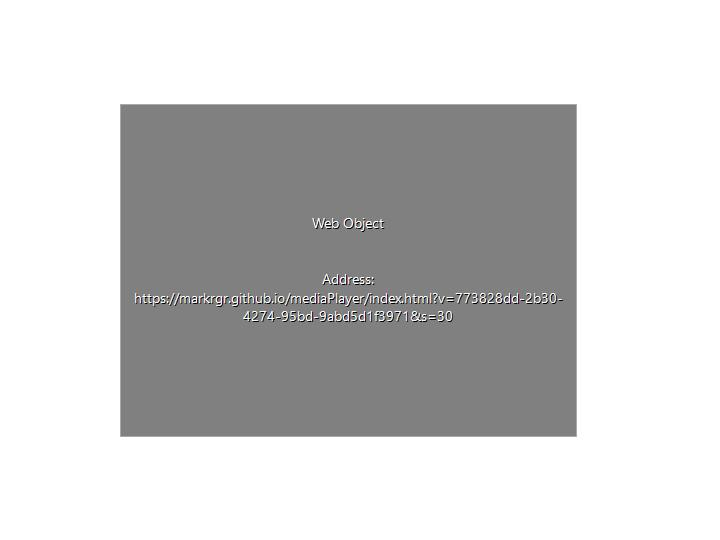
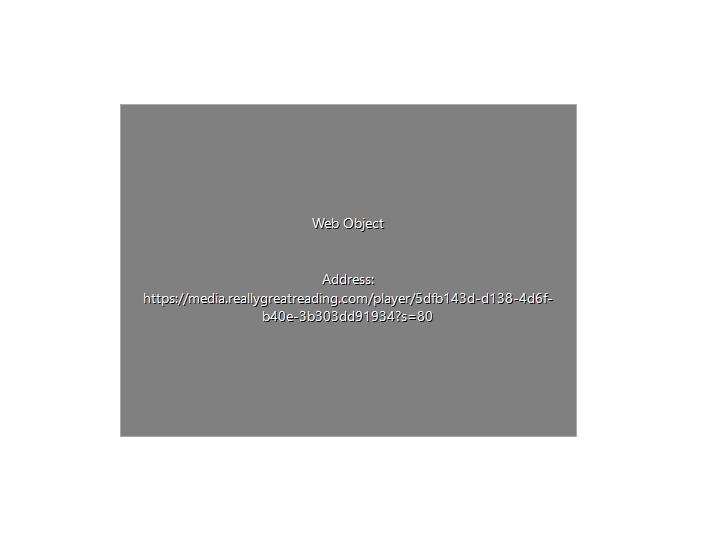
New SL Sample

Changed region(s): [[0.1833, 0.5333, 0.7944, 0.6222]]

diff --git a/slSample/RawVideoStream/html5/data/js/data.js b/slSample/RawVideoStream/html5/data/js/data.js
@@ -1,1 +1,1 @@
-window.globalProvideData('data', '{"version":"3.102.35072.0","bwVersion":"4.0","tincanVersion":"1.0","tincanLanguage":"und","projectId":"6XzdXAylp7d","courseId":"6Hy7zcT9IB6","entryPoint":"_player.62l3LzaU18X","iosFonts":"mobile/fonts.json","debugMode":false,"lessonDuration":0,"textDirection":"ltr","meta":{"hasMultiLanguageSource":false},"playervars":[{"kind":"playervar","name":"displayCaptions","value":false},{"kind":"playervar","name":"zoomToFit","value":false},{"kind":"playervar","name":"accessibleText","value":false},{"kind":"playervar","name":"activityId","value":""},{"kind":"playervar","name":"currentSlideId","value":""},{"kind":"playervar","name":"slideElapsedTime","value":""},{"kind":"playervar","name":"sceneElapsedTime","value":""},{"kind":"playervar","name":"projectElapsedTime","value":""},{"kind":"playervar","name":"questionCorrect","value":false},{"kind":"playervar","name":"fullScreenMode","value":false},{"kind":"playervar","name":"backgroundAudioVolume","value":100},{"kind":"playervar","name":"menuSlideNumber","value":0},{"kind":"playervar","name":"menuSlideTitle","value":""},{"kind":"playervar","name":"menuSlideReference","value":0},{"kind":"playervar","name":"menuSlidesViewed","value":0},{"kind":"playervar","name":"menuTotalSlides","value":0},{"kind":"playervar","name":"menuProgress","value":0},{"kind":"playervar","name":"menuSectionSlideNumber","value":0},{"kind":"playervar","name":"menuSectionSlidesViewed","value":0},{"kind":"playervar","name":"menuSectionTotalSlides","value":0},{"kind":"playervar","name":"menuSectionProgress","value":0},{"kind":"playervar","name":"menuSectionNumber","value":0},{"kind":"playervar","name":"menuSectionsViewed","value":0},{"kind":"playervar","name":"menuTotalSections","value":0},{"kind":"playervar","name":"projectSlideNumber","value":0},{"kind":"playervar","name":"projectSceneNumber","value":0},{"kind":"playervar","name":"projectSlideTitle","value":""},{"kind":"playervar","name":"projectSlideReference","value":0},{"kind":"playervar","name":"projectSlidesViewed","value":0},{"kind":"playervar","name":"projectScenesViewed","value":0},{"kind":"playervar","name":"projectTotalSlides","value":0},{"kind":"playervar","name":"projectTotalScenes","value":0},{"kind":"playervar","name":"projectProgress","value":0},{"kind":"playervar","name":"sceneSlideNumber","value":0},{"kind":"playervar","name":"sceneSlidesViewed","value":0},{"kind":"playervar","name":"sceneTotalSlides","value":0},{"kind":"playervar","name":"sceneProgress","value":0}],"slideMap":{"queueSize":3,"slideRefs":[{"kind":"slideref","id":"PromptScene.ResumePromptSlide","type":"slide","assetIds":[]},{"kind":"slideref","id":"PromptScene.ExternalInterfaceErrorSlide","type":"slide","assetIds":[]},{"kind":"slideref","id":"62l3LzaU18X.5buo1W8UKQG","type":"slide","assetIds":[]}]},"display":{"frameData":"story_content/frame.xml","width":980,"height":658,"windows":[{"kind":"window","id":"MessageWnd","linkId":"StoryWindow","width":420,"height":210,"alignTo":"content","align":"center","valign":"center"},{"kind":"window","id":"LightboxWnd","linkId":"StoryPopup","width":620,"height":467,"alignTo":"player","align":"center","valign":"center"},{"kind":"window","id":"LightboxControlsWnd","linkId":"StoryPopupControls","width":624,"height":509,"alignTo":"player","align":"center","valign":"center"}]},"resume":{"id":"6ojv92CC8NR","window":"MessageWnd","slideId":"_player.PromptScene.ResumePromptSlide","lmsresume":true,"flashresume":true,"prompt":true,"everySlide":false},"string_table":[{"kind":"group","id":"chrome23","strings":[{"kind":"string","id":"title","Text":"Can\'t Play Course"},{"kind":"string","id":"description","Text":"For security reasons, Flash cannot access files on your computer\'s hard disk from your web browser."},{"kind":"string","id":"linkText","Text":"Learn More"},{"kind":"string","id":"linkUrl","Text":"https://ipc.articulate.com/slw/360/en/localplayback/"}]}],"errorMsgs":{"external_interface":{"kind":"error","window":"MessageWnd","slideId":"_player.PromptScene.ExternalInterfaceErrorSlide"}},"scenes":[{"kind":"scene","lmsId":"","isMessageScene":true,"startingSlide":"_player.PromptScene.ResumePromptSlide","sceneNumber":0,"slides":[{"kind":"slide","title":"<p dir=\'ltr\' align=\'left\' style=\\"font-family: \'Lato22AB4CAF\';\\">Resume</p>","trackViews":false,"showMenuResultIcon":false,"viewGroupId":"","historyGroupId":"prompt","videoZoom":"","scrolling":false,"transition":"appear","transDuration":0,"transDir":1,"wipeTrans":false,"slideLock":false,"navIndex":-1,"globalAudioId":"","thumbnailid":"","slideNumberInScene":0,"includeInSlideCounts":false,"showAnimationId":"","lmsId":"","width":420,"height":210,"resume":false,"id":"ResumePromptSlide","slideLayers":[{"enableSeek":true,"enableReplay":true,"timeline":{"duration":1000,"events":[{"kind":"ontimelinetick","time":0,"actions":[{"kind":"show","transition":"appear","objRef":{"type":"string","value":"6Hy7zcT9IB6_ResumePromptSlide_btn0"}},{"kind":"show","transition":"appear","objRef":{"type":"string","value":"6Hy7zcT9IB6_ResumePromptSlide_btn1"}},{"kind":"show","transition":"appear","objRef":{"type":"string","value":"ResumePromptSlide_Scroll.6Hy7zcT9IB6_ResumePromptSlide_text"}},{"kind":"show","transition":"appear","objRef":{"type":"string","value":"ResumePromptSlide_Scroll"}}]}]},"objects":[{"kind":"scrollarea","contentwidth":381,"contentheight":23,"objects":[{"kind":"vectorshape","rotation":0,"accType":"text","cliptobounds":false,"defaultAction":"","textLib":[{"kind":"textdata","uniqueId":"6Hy7zcT9IB6_ResumePromptSlide_text","id":"01","linkId":"6Hy7zcT9IB6_ResumePromptSlide_text","type":"vectortext","xPos":0,"yPos":0,"xAccOffset":0,"yAccOffset":0,"width":0,"height":0,"shadowIndex":-1,"scrollOverflow":false,"vectortext":{"left":0,"top":0,"right":370,"bottom":23,"pngfb":false,"pr":{"l":"common","i":1}}}],"shapemaskId":"","xPos":0,"yPos":0,"tabIndex":1,"tabEnabled":true,"xOffset":0,"yOffset":0,"rotateXPos":194,"rotateYPos":11.5,"scaleX":100,"scaleY":100,"alpha":100,"depth":1,"scrolling":true,"shuffleLock":false,"data":{"hotlinkId":"","accState":0,"vectorData":{"left":0,"top":0,"right":370,"bottom":23,"altText":"Would you like to resume where you left off?","pngfb":false,"pr":{"l":"common","i":0}},"html5data":{"xPos":0,"yPos":0,"width":370,"height":23,"strokewidth":0}},"width":388,"height":23,"resume":false,"useHandCursor":true,"id":"6Hy7zcT9IB6_ResumePromptSlide_text"}],"shapemaskId":"","xPos":13,"yPos":16,"tabIndex":0,"tabEnabled":true,"xOffset":0,"yOffset":0,"rotateXPos":205.5,"rotateYPos":39,"scaleX":100,"scaleY":100,"alpha":100,"rotation":0,"depth":1,"scrolling":true,"shuffleLock":false,"width":411,"height":78,"resume":false,"useHandCursor":true,"id":"ResumePromptSlide_Scroll"},{"kind":"button","shapemaskId":"","xPos":107,"yPos":110,"tabIndex":2,"tabEnabled":true,"xOffset":0,"yOffset":0,"rotateXPos":50,"rotateYPos":15,"scaleX":100,"scaleY":100,"alpha":100,"rotation":0,"depth":2,"scrolling":true,"shuffleLock":false,"data":{"hotlinkId":"","accState":0,"textdata":{"uniqueId":"6Hy7zcT9IB6_ResumePromptSlide_btn0","type":"vectortext","altText":"Yes","xPos":0,"yPos":0,"xAccOffset":0,"yAccOffset":0,"width":0,"height":0,"shadowIndex":-1,"scrollOverflow":false,"vectortext":{"left":0,"top":0,"right":63,"bottom":25,"pngfb":false,"pr":{"l":"common","i":2}}}},"width":100,"height":30,"resume":false,"useHandCursor":true,"id":"6Hy7zcT9IB6_ResumePromptSlide_btn0","events":[{"kind":"onrelease","actions":[{"kind":"resume_player","resume":true}]}]},{"kind":"button","shapemaskId":"","xPos":212,"yPos":110,"tabIndex":3,"tabEnabled":true,"xOffset":0,"yOffset":0,"rotateXPos":50,"rotateYPos":15,"scaleX":100,"scaleY":100,"alpha":100,"rotation":0,"depth":3,"scrolling":true,"shuffleLock":false,"data":{"hotlinkId":"","accState":0,"textdata":{"uniqueId":"6Hy7zcT9IB6_ResumePromptSlide_btn1","type":"vectortext","altText":"No","xPos":0,"yPos":0,"xAccOffset":0,"yAccOffset":0,"width":0,"height":0,"shadowIndex":-1,"scrollOverflow":false,"vectortext":{"left":0,"top":0,"right":61,"bottom":25,"pngfb":false,"pr":{"l":"common","i":3}}}},"width":100,"height":30,"resume":false,"useHandCursor":true,"id":"6Hy7zcT9IB6_ResumePromptSlide_btn1","events":[{"kind":"onrelease","actions":[{"kind":"resume_player","resume":false}]}]}],"startTime":-1,"elapsedTimeMode":"normal","useHandCursor":false,"resume":false,"kind":"slidelayer","isBaseLayer":true}]},{"kind":"slide","title":"<p dir=\'ltr\' align=\'left\' style=\\"font-family: \'Lato22AB4CAF\';\\">Warning</p>","trackViews":false,"showMenuResultIcon":false,"viewGroupId":"","historyGroupId":"prompt","videoZoom":"","scrolling":false,"transition":"appear","transDuration":0,"transDir":1,"wipeTrans":false,"slideLock":false,"navIndex":-1,"globalAudioId":"","thumbnailid":"","slideNumberInScene":0,"includeInSlideCounts":false,"showAnimationId":"","lmsId":"","width":415,"height":151,"resume":false,"id":"ExternalInterfaceErrorSlide","slideLayers":[{"enableSeek":true,"enableReplay":true,"timeline":{"duration":1000,"events":[{"kind":"ontimelinetick","time":0,"actions":[{"kind":"show","transition":"appear","objRef":{"type":"string","value":"Text"}},{"kind":"show","transition":"appear","objRef":{"type":"string","value":"buttonOK"}}]}]},"objects":[{"kind":"vectorshape","rotation":0,"accType":"text","cliptobounds":false,"defaultAction":"","textLib":[{"kind":"textdata","id":"01","linkId":"01","type":"vartext","xPos":0,"yPos":0,"xAccOffset":0,"yAccOffset":0,"width":383,"height":105,"device":true,"valign":"center","wordwrap":false,"textshadow":false,"shadowIndex":-1,"scrollOverflow":false,"vartext":"<html><p dir=\'ltr\' align=\'left\'><font face=\'Lato\' size=\'18pt\'color=\'#E2E2E2\'>The %_player.$LastErrorFeature% feature on this slide has been disabled while viewing locally because your browser does not support it.</font></p></html>"}],"shapemaskId":"","xPos":16,"yPos":0,"tabIndex":0,"tabEnabled":true,"xOffset":0,"yOffset":0,"rotateXPos":191.5,"rotateYPos":52.5,"scaleX":100,"scaleY":100,"alpha":100,"depth":1,"scrolling":true,"shuffleLock":false,"data":{"hotlinkId":"","accState":0,"vectorData":{"left":0,"top":0,"right":383,"bottom":105,"altText":"Warning Message","pngfb":false,"pr":{"l":"common","i":4}},"html5data":{"xPos":0,"yPos":0,"width":383,"height":105,"strokewidth":0}},"width":383,"height":105,"resume":false,"useHandCursor":true,"id":"Text"},{"kind":"button","shapemaskId":"","xPos":299,"yPos":105,"tabIndex":1,"tabEnabled":true,"xOffset":0,"yOffset":0,"rotateXPos":50,"rotateYPos":15,"scaleX":100,"scaleY":100,"alpha":100,"rotation":0,"depth":2,"scrolling":true,"shuffleLock":false,"data":{"hotlinkId":"","accState":0,"textdata":{"uniqueId":"buttonOK","type":"vectortext","altText":"OK","xPos":0,"yPos":0,"xAccOffset":0,"yAccOffset":0,"width":0,"height":0,"shadowIndex":-1,"scrollOverflow":false,"vectortext":{"left":0,"top":0,"right":62,"bottom":25,"pngfb":false,"pr":{"l":"common","i":5}}}},"width":100,"height":30,"resume":false,"useHandCursor":true,"id":"buttonOK","events":[{"kind":"onrelease","actions":[{"kind":"close_window","id":"MessageWnd"}]}]}],"startTime":-1,"elapsedTimeMode":"normal","useHandCursor":false,"resume":false,"kind":"slidelayer","isBaseLayer":true}]}],"id":"PromptScene"},{"kind":"scene","lmsId":"Scene1","isMessageScene":false,"startingSlide":"_player.62l3LzaU18X.5buo1W8UKQG","sceneNumber":1,"slides":[{"kind":"slide","html5url":"html5/data/js/5buo1W8UKQG.js","title":"Intro Slide","trackViews":true,"showMenuResultIcon":false,"viewGroupId":"","historyGroupId":"","videoZoom":"","scrolling":false,"transition":"appear","transDuration":0,"transDir":1,"wipeTrans":false,"slideLock":false,"navIndex":-1,"globalAudioId":"","thumbnailid":"","slideNumberInScene":1,"includeInSlideCounts":true,"showAnimationId":"","lmsId":"Slide1","width":720,"height":540,"resume":false,"id":"5buo1W8UKQG","slideLayers":[{"enableSeek":true,"enableReplay":true,"startTime":-1,"elapsedTimeMode":"normal","useHandCursor":false,"resume":false,"kind":"slidelayer","isBaseLayer":true}]}],"id":"62l3LzaU18X"}],"slideBank":{},"assetLib":[{"kind":"asset","mobileUrl":"story_content/5uNHjtBdjdp65cw5NVKiTh{Width=456, Height=332}Light.png","imageType":"normal","width":456,"height":332,"mobiledx":0,"mobiledy":0,"fileSize":7385,"maskref":"0","url":"mobile/5uNHjtBdjdp65cw5NVKiTh{Width=456, Height=332}Light.png","id":0}],"fontLib":[],"scorings":[{"kind":"scoring","description":"","lmstext":"RawVideoStream","type":"view","passPercent":80,"viewThreshold":1,"slidesViewedMode":"project","passStatus":"pass","failStatus":"fail","scoreRefs":[],"id":"scoringId_Slides"}],"slideCount":1,"defaultFont":"Lato22AB4CAF","fontScale":100,"colorGroups":[{"id":"window","colors":[{"id":"background","value":"#212121"},{"id":"border","value":"#454545"},{"id":"activeBorder","value":"#BABBBA"},{"id":"shadow","value":"rgba(0, 0, 0, 0.85)"},{"id":"divider","value":"#7A7A7A"}]},{"id":"button","colors":[{"id":"icon","value":"#BABBBA"},{"id":"iconHover","value":"#F8F8F8"},{"id":"border","value":"#7A7A7A"},{"id":"background","value":"#212121"}]},{"id":"text","colors":[{"id":"default","value":"#BABBBA"},{"id":"active","value":"#F8F8F8"}]},{"id":"select","colors":[{"id":"border","value":"#7A7A7A"},{"id":"background","value":"rgba(255, 255, 255, 0.06)"},{"id":"openBorder","value":"#BABBBA"}]},{"id":"selectList","colors":[{"id":"border","value":"#505050"},{"id":"background","value":"#212121"}]},{"id":"listitem","colors":[{"id":"selectedBorder","value":"#F8F8F8"}]},{"id":"scrollbar","colors":[{"id":"thumbBackground","value":"#BABBBA"}]},{"id":"base","colors":[{"id":"accent","value":"#4FBDF4"}]}],"id":"_player","variables":[{"kind":"variable","name":"LastSlideViewed_6Hy7zcT9IB6","type":"string","value":"_player.62l3LzaU18X.5buo1W8UKQG","resume":true},{"kind":"variable","name":"5buo1W8UKQG_RetryModeInteractionIncompleteOnLoad","type":"boolean","value":false,"resume":true}],"actionGroups":{"ActGrpOnPrevButtonClick":{"kind":"actiongroup","actions":[{"kind":"trigger_prev_slide"}]},"ActGrpOnNextButtonClick":{"kind":"actiongroup","actions":[{"kind":"trigger_next_slide"}]},"ActGrpOnFinishButtonClick":{"kind":"actiongroup","actions":[{"kind":"trigger_slide_finish"}]},"ActGrpOnSubmitButtonClick":{"kind":"actiongroup","actions":[{"kind":"trigger_submit_slide"}]},"ActGrpOnSubmitAllButtonClick":{"kind":"actiongroup","actions":[{"kind":"trigger_submitall_slide"}]}},"events":[{"kind":"onobjectevent","eventName":"prev_pressed","actions":[{"kind":"exe_actiongroup","id":"ActGrpOnPrevButtonClick"}]},{"kind":"onobjectevent","eventName":"next_pressed","actions":[{"kind":"exe_actiongroup","id":"ActGrpOnNextButtonClick"}]},{"kind":"onobjectevent","eventName":"finish_pressed","actions":[{"kind":"exe_actiongroup","id":"ActGrpOnFinishButtonClick"}]},{"kind":"onobjectevent","eventName":"submit_pressed","actions":[{"kind":"exe_actiongroup","id":"ActGrpOnSubmitButtonClick"}]},{"kind":"onobjectevent","eventName":"submitall_pressed","actions":[{"kind":"exe_actiongroup","id":"ActGrpOnSubmitAllButtonClick"}]}]}');
+window.globalProvideData('data', '{"version":"3.102.35072.0","bwVersion":"4.0","tincanVersion":"1.0","tincanLanguage":"und","projectId":"5gNNCqt9uBD","courseId":"6Hy7zcT9IB6","entryPoint":"_player.62l3LzaU18X","iosFonts":"mobile/fonts.json","debugMode":false,"lessonDuration":0,"textDirection":"ltr","meta":{"hasMultiLanguageSource":false},"playervars":[{"kind":"playervar","name":"displayCaptions","value":false},{"kind":"playervar","name":"zoomToFit","value":false},{"kind":"playervar","name":"accessibleText","value":false},{"kind":"playervar","name":"activityId","value":""},{"kind":"playervar","name":"currentSlideId","value":""},{"kind":"playervar","name":"slideElapsedTime","value":""},{"kind":"playervar","name":"sceneElapsedTime","value":""},{"kind":"playervar","name":"projectElapsedTime","value":""},{"kind":"playervar","name":"questionCorrect","value":false},{"kind":"playervar","name":"fullScreenMode","value":false},{"kind":"playervar","name":"backgroundAudioVolume","value":100},{"kind":"playervar","name":"menuSlideNumber","value":0},{"kind":"playervar","name":"menuSlideTitle","value":""},{"kind":"playervar","name":"menuSlideReference","value":0},{"kind":"playervar","name":"menuSlidesViewed","value":0},{"kind":"playervar","name":"menuTotalSlides","value":0},{"kind":"playervar","name":"menuProgress","value":0},{"kind":"playervar","name":"menuSectionSlideNumber","value":0},{"kind":"playervar","name":"menuSectionSlidesViewed","value":0},{"kind":"playervar","name":"menuSectionTotalSlides","value":0},{"kind":"playervar","name":"menuSectionProgress","value":0},{"kind":"playervar","name":"menuSectionNumber","value":0},{"kind":"playervar","name":"menuSectionsViewed","value":0},{"kind":"playervar","name":"menuTotalSections","value":0},{"kind":"playervar","name":"projectSlideNumber","value":0},{"kind":"playervar","name":"projectSceneNumber","value":0},{"kind":"playervar","name":"projectSlideTitle","value":""},{"kind":"playervar","name":"projectSlideReference","value":0},{"kind":"playervar","name":"projectSlidesViewed","value":0},{"kind":"playervar","name":"projectScenesViewed","value":0},{"kind":"playervar","name":"projectTotalSlides","value":0},{"kind":"playervar","name":"projectTotalScenes","value":0},{"kind":"playervar","name":"projectProgress","value":0},{"kind":"playervar","name":"sceneSlideNumber","value":0},{"kind":"playervar","name":"sceneSlidesViewed","value":0},{"kind":"playervar","name":"sceneTotalSlides","value":0},{"kind":"playervar","name":"sceneProgress","value":0}],"slideMap":{"queueSize":3,"slideRefs":[{"kind":"slideref","id":"PromptScene.ResumePromptSlide","type":"slide","assetIds":[]},{"kind":"slideref","id":"PromptScene.ExternalInterfaceErrorSlide","type":"slide","assetIds":[]},{"kind":"slideref","id":"62l3LzaU18X.5buo1W8UKQG","type":"slide","assetIds":[]}]},"display":{"frameData":"story_content/frame.xml","width":980,"height":658,"windows":[{"kind":"window","id":"MessageWnd","linkId":"StoryWindow","width":420,"height":210,"alignTo":"content","align":"center","valign":"center"},{"kind":"window","id":"LightboxWnd","linkId":"StoryPopup","width":620,"height":467,"alignTo":"player","align":"center","valign":"center"},{"kind":"window","id":"LightboxControlsWnd","linkId":"StoryPopupControls","width":624,"height":509,"alignTo":"player","align":"center","valign":"center"}]},"resume":{"id":"6RsWw2wtAQ7","window":"MessageWnd","slideId":"_player.PromptScene.ResumePromptSlide","lmsresume":true,"flashresume":true,"prompt":true,"everySlide":false},"string_table":[{"kind":"group","id":"chrome23","strings":[{"kind":"string","id":"title","Text":"Can\'t Play Course"},{"kind":"string","id":"description","Text":"For security reasons, Flash cannot access files on your computer\'s hard disk from your web browser."},{"kind":"string","id":"linkText","Text":"Learn More"},{"kind":"string","id":"linkUrl","Text":"https://ipc.articulate.com/slw/360/en/localplayback/"}]}],"errorMsgs":{"external_interface":{"kind":"error","window":"MessageWnd","slideId":"_player.PromptScene.ExternalInterfaceErrorSlide"}},"scenes":[{"kind":"scene","lmsId":"","isMessageScene":true,"startingSlide":"_player.PromptScene.ResumePromptSlide","sceneNumber":0,"slides":[{"kind":"slide","title":"<p dir=\'ltr\' align=\'left\' style=\\"font-family: \'Lato22AB4CAF\';\\">Resume</p>","trackViews":false,"showMenuResultIcon":false,"viewGroupId":"","historyGroupId":"prompt","videoZoom":"","scrolling":false,"transition":"appear","transDuration":0,"transDir":1,"wipeTrans":false,"slideLock":false,"navIndex":-1,"globalAudioId":"","thumbnailid":"","slideNumberInScene":0,"includeInSlideCounts":false,"showAnimationId":"","lmsId":"","width":420,"height":210,"resume":false,"id":"ResumePromptSlide","slideLayers":[{"enableSeek":true,"enableReplay":true,"timeline":{"duration":1000,"events":[{"kind":"ontimelinetick","time":0,"actions":[{"kind":"show","transition":"appear","objRef":{"type":"string","value":"6Hy7zcT9IB6_ResumePromptSlide_btn0"}},{"kind":"show","transition":"appear","objRef":{"type":"string","value":"6Hy7zcT9IB6_ResumePromptSlide_btn1"}},{"kind":"show","transition":"appear","objRef":{"type":"string","value":"ResumePromptSlide_Scroll.6Hy7zcT9IB6_ResumePromptSlide_text"}},{"kind":"show","transition":"appear","objRef":{"type":"string","value":"ResumePromptSlide_Scroll"}}]}]},"objects":[{"kind":"scrollarea","contentwidth":381,"contentheight":23,"objects":[{"kind":"vectorshape","rotation":0,"accType":"text","cliptobounds":false,"defaultAction":"","textLib":[{"kind":"textdata","uniqueId":"6Hy7zcT9IB6_ResumePromptSlide_text","id":"01","linkId":"6Hy7zcT9IB6_ResumePromptSlide_text","type":"vectortext","xPos":0,"yPos":0,"xAccOffset":0,"yAccOffset":0,"width":0,"height":0,"shadowIndex":-1,"scrollOverflow":false,"vectortext":{"left":0,"top":0,"right":370,"bottom":23,"pngfb":false,"pr":{"l":"common","i":1}}}],"shapemaskId":"","xPos":0,"yPos":0,"tabIndex":1,"tabEnabled":true,"xOffset":0,"yOffset":0,"rotateXPos":194,"rotateYPos":11.5,"scaleX":100,"scaleY":100,"alpha":100,"depth":1,"scrolling":true,"shuffleLock":false,"data":{"hotlinkId":"","accState":0,"vectorData":{"left":0,"top":0,"right":370,"bottom":23,"altText":"Would you like to resume where you left off?","pngfb":false,"pr":{"l":"common","i":0}},"html5data":{"xPos":0,"yPos":0,"width":370,"height":23,"strokewidth":0}},"width":388,"height":23,"resume":false,"useHandCursor":true,"id":"6Hy7zcT9IB6_ResumePromptSlide_text"}],"shapemaskId":"","xPos":13,"yPos":16,"tabIndex":0,"tabEnabled":true,"xOffset":0,"yOffset":0,"rotateXPos":205.5,"rotateYPos":39,"scaleX":100,"scaleY":100,"alpha":100,"rotation":0,"depth":1,"scrolling":true,"shuffleLock":false,"width":411,"height":78,"resume":false,"useHandCursor":true,"id":"ResumePromptSlide_Scroll"},{"kind":"button","shapemaskId":"","xPos":107,"yPos":110,"tabIndex":2,"tabEnabled":true,"xOffset":0,"yOffset":0,"rotateXPos":50,"rotateYPos":15,"scaleX":100,"scaleY":100,"alpha":100,"rotation":0,"depth":2,"scrolling":true,"shuffleLock":false,"data":{"hotlinkId":"","accState":0,"textdata":{"uniqueId":"6Hy7zcT9IB6_ResumePromptSlide_btn0","type":"vectortext","altText":"Yes","xPos":0,"yPos":0,"xAccOffset":0,"yAccOffset":0,"width":0,"height":0,"shadowIndex":-1,"scrollOverflow":false,"vectortext":{"left":0,"top":0,"right":63,"bottom":25,"pngfb":false,"pr":{"l":"common","i":2}}}},"width":100,"height":30,"resume":false,"useHandCursor":true,"id":"6Hy7zcT9IB6_ResumePromptSlide_btn0","events":[{"kind":"onrelease","actions":[{"kind":"resume_player","resume":true}]}]},{"kind":"button","shapemaskId":"","xPos":212,"yPos":110,"tabIndex":3,"tabEnabled":true,"xOffset":0,"yOffset":0,"rotateXPos":50,"rotateYPos":15,"scaleX":100,"scaleY":100,"alpha":100,"rotation":0,"depth":3,"scrolling":true,"shuffleLock":false,"data":{"hotlinkId":"","accState":0,"textdata":{"uniqueId":"6Hy7zcT9IB6_ResumePromptSlide_btn1","type":"vectortext","altText":"No","xPos":0,"yPos":0,"xAccOffset":0,"yAccOffset":0,"width":0,"height":0,"shadowIndex":-1,"scrollOverflow":false,"vectortext":{"left":0,"top":0,"right":61,"bottom":25,"pngfb":false,"pr":{"l":"common","i":3}}}},"width":100,"height":30,"resume":false,"useHandCursor":true,"id":"6Hy7zcT9IB6_ResumePromptSlide_btn1","events":[{"kind":"onrelease","actions":[{"kind":"resume_player","resume":false}]}]}],"startTime":-1,"elapsedTimeMode":"normal","useHandCursor":false,"resume":false,"kind":"slidelayer","isBaseLayer":true}]},{"kind":"slide","title":"<p dir=\'ltr\' align=\'left\' style=\\"font-family: \'Lato22AB4CAF\';\\">Warning</p>","trackViews":false,"showMenuResultIcon":false,"viewGroupId":"","historyGroupId":"prompt","videoZoom":"","scrolling":false,"transition":"appear","transDuration":0,"transDir":1,"wipeTrans":false,"slideLock":false,"navIndex":-1,"globalAudioId":"","thumbnailid":"","slideNumberInScene":0,"includeInSlideCounts":false,"showAnimationId":"","lmsId":"","width":415,"height":151,"resume":false,"id":"ExternalInterfaceErrorSlide","slideLayers":[{"enableSeek":true,"enableReplay":true,"timeline":{"duration":1000,"events":[{"kind":"ontimelinetick","time":0,"actions":[{"kind":"show","transition":"appear","objRef":{"type":"string","value":"Text"}},{"kind":"show","transition":"appear","objRef":{"type":"string","value":"buttonOK"}}]}]},"objects":[{"kind":"vectorshape","rotation":0,"accType":"text","cliptobounds":false,"defaultAction":"","textLib":[{"kind":"textdata","id":"01","linkId":"01","type":"vartext","xPos":0,"yPos":0,"xAccOffset":0,"yAccOffset":0,"width":383,"height":105,"device":true,"valign":"center","wordwrap":false,"textshadow":false,"shadowIndex":-1,"scrollOverflow":false,"vartext":"<html><p dir=\'ltr\' align=\'left\'><font face=\'Lato\' size=\'18pt\'color=\'#E2E2E2\'>The %_player.$LastErrorFeature% feature on this slide has been disabled while viewing locally because your browser does not support it.</font></p></html>"}],"shapemaskId":"","xPos":16,"yPos":0,"tabIndex":0,"tabEnabled":true,"xOffset":0,"yOffset":0,"rotateXPos":191.5,"rotateYPos":52.5,"scaleX":100,"scaleY":100,"alpha":100,"depth":1,"scrolling":true,"shuffleLock":false,"data":{"hotlinkId":"","accState":0,"vectorData":{"left":0,"top":0,"right":383,"bottom":105,"altText":"Warning Message","pngfb":false,"pr":{"l":"common","i":4}},"html5data":{"xPos":0,"yPos":0,"width":383,"height":105,"strokewidth":0}},"width":383,"height":105,"resume":false,"useHandCursor":true,"id":"Text"},{"kind":"button","shapemaskId":"","xPos":299,"yPos":105,"tabIndex":1,"tabEnabled":true,"xOffset":0,"yOffset":0,"rotateXPos":50,"rotateYPos":15,"scaleX":100,"scaleY":100,"alpha":100,"rotation":0,"depth":2,"scrolling":true,"shuffleLock":false,"data":{"hotlinkId":"","accState":0,"textdata":{"uniqueId":"buttonOK","type":"vectortext","altText":"OK","xPos":0,"yPos":0,"xAccOffset":0,"yAccOffset":0,"width":0,"height":0,"shadowIndex":-1,"scrollOverflow":false,"vectortext":{"left":0,"top":0,"right":62,"bottom":25,"pngfb":false,"pr":{"l":"common","i":5}}}},"width":100,"height":30,"resume":false,"useHandCursor":true,"id":"buttonOK","events":[{"kind":"onrelease","actions":[{"kind":"close_window","id":"MessageWnd"}]}]}],"startTime":-1,"elapsedTimeMode":"normal","useHandCursor":false,"resume":false,"kind":"slidelayer","isBaseLayer":true}]}],"id":"PromptScene"},{"kind":"scene","lmsId":"Scene1","isMessageScene":false,"startingSlide":"_player.62l3LzaU18X.5buo1W8UKQG","sceneNumber":1,"slides":[{"kind":"slide","html5url":"html5/data/js/5buo1W8UKQG.js","title":"Intro Slide","trackViews":true,"showMenuResultIcon":false,"viewGroupId":"","historyGroupId":"","videoZoom":"","scrolling":false,"transition":"appear","transDuration":0,"transDir":1,"wipeTrans":false,"slideLock":false,"navIndex":-1,"globalAudioId":"","thumbnailid":"","slideNumberInScene":1,"includeInSlideCounts":true,"showAnimationId":"","lmsId":"Slide1","width":720,"height":540,"resume":false,"id":"5buo1W8UKQG","slideLayers":[{"enableSeek":true,"enableReplay":true,"startTime":-1,"elapsedTimeMode":"normal","useHandCursor":false,"resume":false,"kind":"slidelayer","isBaseLayer":true}]}],"id":"62l3LzaU18X"}],"slideBank":{},"assetLib":[{"kind":"asset","mobileUrl":"story_content/5uNHjtBdjdp5kBMfnTa0bJ{Width=456, Height=332}Light.png","imageType":"normal","width":456,"height":332,"mobiledx":0,"mobiledy":0,"fileSize":6835,"maskref":"0","url":"mobile/5uNHjtBdjdp5kBMfnTa0bJ{Width=456, Height=332}Light.png","id":0}],"fontLib":[],"scorings":[{"kind":"scoring","description":"","lmstext":"RawVideoStream","type":"view","passPercent":80,"viewThreshold":1,"slidesViewedMode":"project","passStatus":"pass","failStatus":"fail","scoreRefs":[],"id":"scoringId_Slides"}],"slideCount":1,"defaultFont":"Lato22AB4CAF","fontScale":100,"colorGroups":[{"id":"window","colors":[{"id":"background","value":"#212121"},{"id":"border","value":"#454545"},{"id":"activeBorder","value":"#BABBBA"},{"id":"shadow","value":"rgba(0, 0, 0, 0.85)"},{"id":"divider","value":"#7A7A7A"}]},{"id":"button","colors":[{"id":"icon","value":"#BABBBA"},{"id":"iconHover","value":"#F8F8F8"},{"id":"border","value":"#7A7A7A"},{"id":"background","value":"#212121"}]},{"id":"text","colors":[{"id":"default","value":"#BABBBA"},{"id":"active","value":"#F8F8F8"}]},{"id":"select","colors":[{"id":"border","value":"#7A7A7A"},{"id":"background","value":"rgba(255, 255, 255, 0.06)"},{"id":"openBorder","value":"#BABBBA"}]},{"id":"selectList","colors":[{"id":"border","value":"#505050"},{"id":"background","value":"#212121"}]},{"id":"listitem","colors":[{"id":"selectedBorder","value":"#F8F8F8"}]},{"id":"scrollbar","colors":[{"id":"thumbBackground","value":"#BABBBA"}]},{"id":"base","colors":[{"id":"accent","value":"#4FBDF4"}]}],"id":"_player","variables":[{"kind":"variable","name":"LastSlideViewed_6Hy7zcT9IB6","type":"string","value":"_player.62l3LzaU18X.5buo1W8UKQG","resume":true},{"kind":"variable","name":"5buo1W8UKQG_RetryModeInteractionIncompleteOnLoad","type":"boolean","value":false,"resume":true}],"actionGroups":{"ActGrpOnPrevButtonClick":{"kind":"actiongroup","actions":[{"kind":"trigger_prev_slide"}]},"ActGrpOnNextButtonClick":{"kind":"actiongroup","actions":[{"kind":"trigger_next_slide"}]},"ActGrpOnFinishButtonClick":{"kind":"actiongroup","actions":[{"kind":"trigger_slide_finish"}]},"ActGrpOnSubmitButtonClick":{"kind":"actiongroup","actions":[{"kind":"trigger_submit_slide"}]},"ActGrpOnSubmitAllButtonClick":{"kind":"actiongroup","actions":[{"kind":"trigger_submitall_slide"}]}},"events":[{"kind":"onobjectevent","eventName":"prev_pressed","actions":[{"kind":"exe_actiongroup","id":"ActGrpOnPrevButtonClick"}]},{"kind":"onobjectevent","eventName":"next_pressed","actions":[{"kind":"exe_actiongroup","id":"ActGrpOnNextButtonClick"}]},{"kind":"onobjectevent","eventName":"finish_pressed","actions":[{"kind":"exe_actiongroup","id":"ActGrpOnFinishButtonClick"}]},{"kind":"onobjectevent","eventName":"submit_pressed","actions":[{"kind":"exe_actiongroup","id":"ActGrpOnSubmitButtonClick"}]},{"kind":"onobjectevent","eventName":"submitall_pressed","actions":[{"kind":"exe_actiongroup","id":"ActGrpOnSubmitAllButtonClick"}]}]}');

diff --git a/slSample/RawVideoStream/html5/data/css/output.min.css b/slSample/RawVideoStream/html5/data/css/output.min.css
@@ -1,11 +1,11 @@
 @font-face {
-  font-family: 'LatoBold Charset1_ Bold8836558B';
+  font-family: 'LatoBold Charset1_ Bold11F6993F';
[1 lines of base64/hex data omitted]
   font-style: normal;
   font-weight: normal;
 }
 @font-face {
-  font-family: 'Lato Charset1_ 6g1HjmQ2195CE23C';
+  font-family: 'Lato Charset1_ 5xlkVbCp8E31750C';
[1 lines of base64/hex data omitted]
   font-style: normal;
   font-weight: normal;

diff --git a/slSample/RawVideoStream/html5/data/js/5buo1W8UKQG.js b/slSample/RawVideoStream/html5/data/js/5buo1W8UKQG.js
@@ -1,1 +1,1 @@
-window.globalProvideData('slide', '{"title":"Intro Slide","trackViews":true,"showMenuResultIcon":false,"viewGroupId":"","historyGroupId":"","videoZoom":"","scrolling":false,"transition":"appear","transDuration":0,"transDir":1,"wipeTrans":false,"slideLock":false,"navIndex":-1,"globalAudioId":"","thumbnailid":"","slideNumberInScene":1,"includeInSlideCounts":true,"presenterRef":{"id":"none"},"showAnimationId":"","lmsId":"Slide1","width":720,"height":540,"resume":false,"background":{"type":"fill","fill":{"type":"linear","rotation":90,"colors":[{"kind":"color","rgb":"0xFFFFFF","alpha":100,"stop":0}]}},"id":"5buo1W8UKQG","actionGroups":{"ActGrpOnNextButtonClick":{"kind":"actiongroup","actions":[]},"ActGrpOnPrevButtonClick":{"kind":"actiongroup","actions":[{"kind":"history_prev"}]},"NavigationRestrictionNextSlide_5buo1W8UKQG":{"kind":"actiongroup","actions":[{"kind":"exe_actiongroup","id":"ActGrpOnNextButtonClick"}]},"NavigationRestrictionPreviousSlide_5buo1W8UKQG":{"kind":"actiongroup","actions":[{"kind":"exe_actiongroup","id":"ActGrpOnPrevButtonClick"}]}},"events":[{"kind":"onslidestart","actions":[{"kind":"if_action","condition":{"statement":{"kind":"compare","operator":"eq","valuea":"_playerVars.#hasPrevHistory","typea":"var","valueb":false,"typeb":"boolean"}},"thenActions":[{"kind":"enable_window_control","name":"previous","enable":false,"affectTabStop":true}]}]},{"kind":"onbeforeslidein","actions":[{"kind":"if_action","condition":{"statement":{"kind":"compare","operator":"eq","valuea":"$WindowId","typea":"property","valueb":"_frame","typeb":"string"}},"thenActions":[{"kind":"set_frame_layout","name":"pxabnsnfns00011100101"}],"elseActions":[{"kind":"set_window_control_layout","name":"pxabnsnfns00011100101"}]}]},{"kind":"onnextslide","actions":[{"kind":"exe_actiongroup","id":"NavigationRestrictionNextSlide_5buo1W8UKQG"}]},{"kind":"onprevslide","actions":[{"kind":"exe_actiongroup","id":"NavigationRestrictionPreviousSlide_5buo1W8UKQG"}]},{"kind":"ontransitionin","actions":[{"kind":"adjustvar","variable":"_player.LastSlideViewed_6Hy7zcT9IB6","operator":"set","value":{"type":"string","value":"_player."}},{"kind":"adjustvar","variable":"_player.LastSlideViewed_6Hy7zcT9IB6","operator":"add","value":{"type":"property","value":"$AbsoluteId"}}]}],"slideLayers":[{"enableSeek":true,"enableReplay":true,"timeline":{"duration":5000,"events":[{"kind":"ontimelinetick","time":0,"actions":[{"kind":"show","transition":"appear","objRef":{"type":"string","value":"5uNHjtBdjdp"}}]}]},"objects":[{"kind":"webobject","shouldScale":true,"url":"https://markrgr.github.io/mediaPlayer/index.html?v=773828dd-2b30-4274-95bd-9abd5d1f3971&s=30","html5Url":"https://markrgr.github.io/mediaPlayer/index.html?v=773828dd-2b30-4274-95bd-9abd5d1f3971&s=30","thumbAssetId":0,"loadtype":"auto","objtype":"normal","shapemaskId":"","xPos":120,"yPos":104,"tabIndex":0,"tabEnabled":true,"referenceName":"5uNHjtBdjdp","morphReferenceName":"5uNHjtBdjdp","xOffset":0,"yOffset":0,"rotateXPos":228,"rotateYPos":166,"scaleX":100,"scaleY":100,"alpha":100,"rotation":0,"depth":1,"scrolling":true,"shuffleLock":false,"width":456,"height":332,"resume":false,"useHandCursor":true,"id":"5uNHjtBdjdp"}],"startTime":-1,"elapsedTimeMode":"normal","useHandCursor":false,"resume":false,"kind":"slidelayer","isBaseLayer":true}]}');
+window.globalProvideData('slide', '{"title":"Intro Slide","trackViews":true,"showMenuResultIcon":false,"viewGroupId":"","historyGroupId":"","videoZoom":"","scrolling":false,"transition":"appear","transDuration":0,"transDir":1,"wipeTrans":false,"slideLock":false,"navIndex":-1,"globalAudioId":"","thumbnailid":"","slideNumberInScene":1,"includeInSlideCounts":true,"presenterRef":{"id":"none"},"showAnimationId":"","lmsId":"Slide1","width":720,"height":540,"resume":false,"background":{"type":"fill","fill":{"type":"linear","rotation":90,"colors":[{"kind":"color","rgb":"0xFFFFFF","alpha":100,"stop":0}]}},"id":"5buo1W8UKQG","actionGroups":{"ActGrpOnNextButtonClick":{"kind":"actiongroup","actions":[]},"ActGrpOnPrevButtonClick":{"kind":"actiongroup","actions":[{"kind":"history_prev"}]},"NavigationRestrictionNextSlide_5buo1W8UKQG":{"kind":"actiongroup","actions":[{"kind":"exe_actiongroup","id":"ActGrpOnNextButtonClick"}]},"NavigationRestrictionPreviousSlide_5buo1W8UKQG":{"kind":"actiongroup","actions":[{"kind":"exe_actiongroup","id":"ActGrpOnPrevButtonClick"}]}},"events":[{"kind":"onslidestart","actions":[{"kind":"if_action","condition":{"statement":{"kind":"compare","operator":"eq","valuea":"_playerVars.#hasPrevHistory","typea":"var","valueb":false,"typeb":"boolean"}},"thenActions":[{"kind":"enable_window_control","name":"previous","enable":false,"affectTabStop":true}]}]},{"kind":"onbeforeslidein","actions":[{"kind":"if_action","condition":{"statement":{"kind":"compare","operator":"eq","valuea":"$WindowId","typea":"property","valueb":"_frame","typeb":"string"}},"thenActions":[{"kind":"set_frame_layout","name":"pxabnsnfns00011100101"}],"elseActions":[{"kind":"set_window_control_layout","name":"pxabnsnfns00011100101"}]}]},{"kind":"onnextslide","actions":[{"kind":"exe_actiongroup","id":"NavigationRestrictionNextSlide_5buo1W8UKQG"}]},{"kind":"onprevslide","actions":[{"kind":"exe_actiongroup","id":"NavigationRestrictionPreviousSlide_5buo1W8UKQG"}]},{"kind":"ontransitionin","actions":[{"kind":"adjustvar","variable":"_player.LastSlideViewed_6Hy7zcT9IB6","operator":"set","value":{"type":"string","value":"_player."}},{"kind":"adjustvar","variable":"_player.LastSlideViewed_6Hy7zcT9IB6","operator":"add","value":{"type":"property","value":"$AbsoluteId"}}]}],"slideLayers":[{"enableSeek":true,"enableReplay":true,"timeline":{"duration":5000,"events":[{"kind":"ontimelinetick","time":0,"actions":[{"kind":"show","transition":"appear","objRef":{"type":"string","value":"5uNHjtBdjdp"}}]}]},"objects":[{"kind":"webobject","shouldScale":true,"url":"https://media.reallygreatreading.com/player/5dfb143d-d138-4d6f-b40e-3b303dd91934?s=80","html5Url":"https://media.reallygreatreading.com/player/5dfb143d-d138-4d6f-b40e-3b303dd91934?s=80","thumbAssetId":0,"loadtype":"auto","objtype":"normal","shapemaskId":"","xPos":120,"yPos":104,"tabIndex":0,"tabEnabled":true,"referenceName":"5uNHjtBdjdp","morphReferenceName":"5uNHjtBdjdp","xOffset":0,"yOffset":0,"rotateXPos":228,"rotateYPos":166,"scaleX":100,"scaleY":100,"alpha":100,"rotation":0,"depth":1,"scrolling":true,"shuffleLock":false,"width":456,"height":332,"resume":false,"useHandCursor":true,"id":"5uNHjtBdjdp"}],"startTime":-1,"elapsedTimeMode":"normal","useHandCursor":false,"resume":false,"kind":"slidelayer","isBaseLayer":true}]}');

diff --git a/slSample/RawVideoStream/html5/data/js/paths.js b/slSample/RawVideoStream/html5/data/js/paths.js
@@ -1,1 +1,1 @@
-window.globalProvideData('paths', '{"Lib":{},"common":{"commandset-0":{"nodeType":"g","children":[{"nodeType":"use","transform":[{"type":"rotate","args":[0]}],"id":"text-1","data-reference-type":"text","data-reference-id":"01","data-shadow":false,"data-rotation":0,"x":0,"y":0}]},"commandset-1":{"nodeType":"g","children":[{"nodeType":"text","font-family":"LatoBold Charset1_ Bold8836558B","font-size":"18.667px","fill":"#E2E2E2","fill-opacity":1,"children":[{"nodeType":"tspan","x":"0 19.1520004 29.7640009 40.3760014 45.4346686 56.0746689 59.6773358 69.328003 79.9400035 90.552004 94.1546709 99.2133381 104.2720053 114.0066721 123.9840061 127.586673 134.8106735 145.422674 149.0253409 156.6506752 166.6280092 174.7853435 185.397344 201.1146778 211.0920118 214.6946787 229.4600119 240.0720124 250.0493464 257.6746807 267.6520147 271.2546816 280.9053488 291.5173493 302.1293498 305.7320167 310.7906839 320.7680179 327.3106843 334.5346848 338.1373517 348.7493522 355.2920186 361.834685 369.6840188","y":18.724,"children":["Would you like to resume where you left off?"]}]}]},"commandset-2":{"nodeType":"g","children":[{"nodeType":"text","font-family":"Lato Charset1_ 6g1HjmQ2195CE23C","font-size":"16px","fill":"#FFFFFF","fill-opacity":1,"children":[{"nodeType":"tspan","x":"37.9440002 46.7280006 55.1120014 62.0560016","y":21.192,"children":["Yes"]}]}]},"commandset-3":{"nodeType":"g","children":[{"nodeType":"text","font-family":"Lato Charset1_ 6g1HjmQ2195CE23C","font-size":"16px","fill":"#FFFFFF","fill-opacity":1,"children":[{"nodeType":"tspan","x":"39.5039978 51.5999985 60.4959994","y":21.192,"children":["No"]}]}]},"commandset-4":{"nodeType":"g","children":[{"nodeType":"g","id":"shape-2","children":[{"nodeType":"path","d":"M0,0L383,0 383,105 0,105z","id":"path-2","fill":"#FFFFFF","fill-opacity":0}],"className":"uneventable"},{"nodeType":"g","id":"shape-3","children":[{"nodeType":"use","transform":[{"type":"rotate","args":[0]}],"id":"text-3","data-reference-type":"text","data-reference-id":"01","data-shadow":false,"data-rotation":0,"x":0,"y":0}],"className":"uneventable"}]},"commandset-5":{"nodeType":"g","children":[{"nodeType":"text","font-family":"Lato Charset1_ 6g1HjmQ2195CE23C","font-size":"16px","fill":"#FFFFFF","fill-opacity":1,"children":[{"nodeType":"tspan","x":"38.1679993 50.9359999 61.8320008","y":21.192,"children":["OK"]}]}]}}}');
+window.globalProvideData('paths', '{"Lib":{},"common":{"commandset-0":{"nodeType":"g","children":[{"nodeType":"use","transform":[{"type":"rotate","args":[0]}],"id":"text-1","data-reference-type":"text","data-reference-id":"01","data-shadow":false,"data-rotation":0,"x":0,"y":0}]},"commandset-1":{"nodeType":"g","children":[{"nodeType":"text","font-family":"LatoBold Charset1_ Bold11F6993F","font-size":"18.667px","fill":"#E2E2E2","fill-opacity":1,"children":[{"nodeType":"tspan","x":"0 19.1520004 29.7640009 40.3760014 45.4346686 56.0746689 59.6773358 69.328003 79.9400035 90.552004 94.1546709 99.2133381 104.2720053 114.0066721 123.9840061 127.586673 134.8106735 145.422674 149.0253409 156.6506752 166.6280092 174.7853435 185.397344 201.1146778 211.0920118 214.6946787 229.4600119 240.0720124 250.0493464 257.6746807 267.6520147 271.2546816 280.9053488 291.5173493 302.1293498 305.7320167 310.7906839 320.7680179 327.3106843 334.5346848 338.1373517 348.7493522 355.2920186 361.834685 369.6840188","y":18.724,"children":["Would you like to resume where you left off?"]}]}]},"commandset-2":{"nodeType":"g","children":[{"nodeType":"text","font-family":"Lato Charset1_ 5xlkVbCp8E31750C","font-size":"16px","fill":"#FFFFFF","fill-opacity":1,"children":[{"nodeType":"tspan","x":"37.9440002 46.7280006 55.1120014 62.0560016","y":21.192,"children":["Yes"]}]}]},"commandset-3":{"nodeType":"g","children":[{"nodeType":"text","font-family":"Lato Charset1_ 5xlkVbCp8E31750C","font-size":"16px","fill":"#FFFFFF","fill-opacity":1,"children":[{"nodeType":"tspan","x":"39.5039978 51.5999985 60.4959994","y":21.192,"children":["No"]}]}]},"commandset-4":{"nodeType":"g","children":[{"nodeType":"g","id":"shape-2","children":[{"nodeType":"path","d":"M0,0L383,0 383,105 0,105z","id":"path-2","fill":"#FFFFFF","fill-opacity":0}],"className":"uneventable"},{"nodeType":"g","id":"shape-3","children":[{"nodeType":"use","transform":[{"type":"rotate","args":[0]}],"id":"text-3","data-reference-type":"text","data-reference-id":"01","data-shadow":false,"data-rotation":0,"x":0,"y":0}],"className":"uneventable"}]},"commandset-5":{"nodeType":"g","children":[{"nodeType":"text","font-family":"Lato Charset1_ 5xlkVbCp8E31750C","font-size":"16px","fill":"#FFFFFF","fill-opacity":1,"children":[{"nodeType":"tspan","x":"38.1679993 50.9359999 61.8320008","y":21.192,"children":["OK"]}]}]}}}');

diff --git a/slSample/RawVideoStream/story.html b/slSample/RawVideoStream/story.html
@@ -37,7 +37,7 @@
       aid: 'aid|ef513b6f-a595-487f-90b6-8819789ff7af',
       cid: 'bba27680-f8c1-4942-bd7c-e422d3c7002f',
       playerVersion: '3.102.35072.0',
-      publishTimestamp: '2025-08-11T20:04:26.6188449Z',
+      publishTimestamp: '2025-08-12T13:07:08.3933880Z',
       maxIosVideoElements: 10,
       connectionSettings: { message: 'You%20are%20offline.%20Trying%20to%20reconnect...', useDarkTheme: false, mode: 'disabled' },
       hasFeature: function(feature) {
